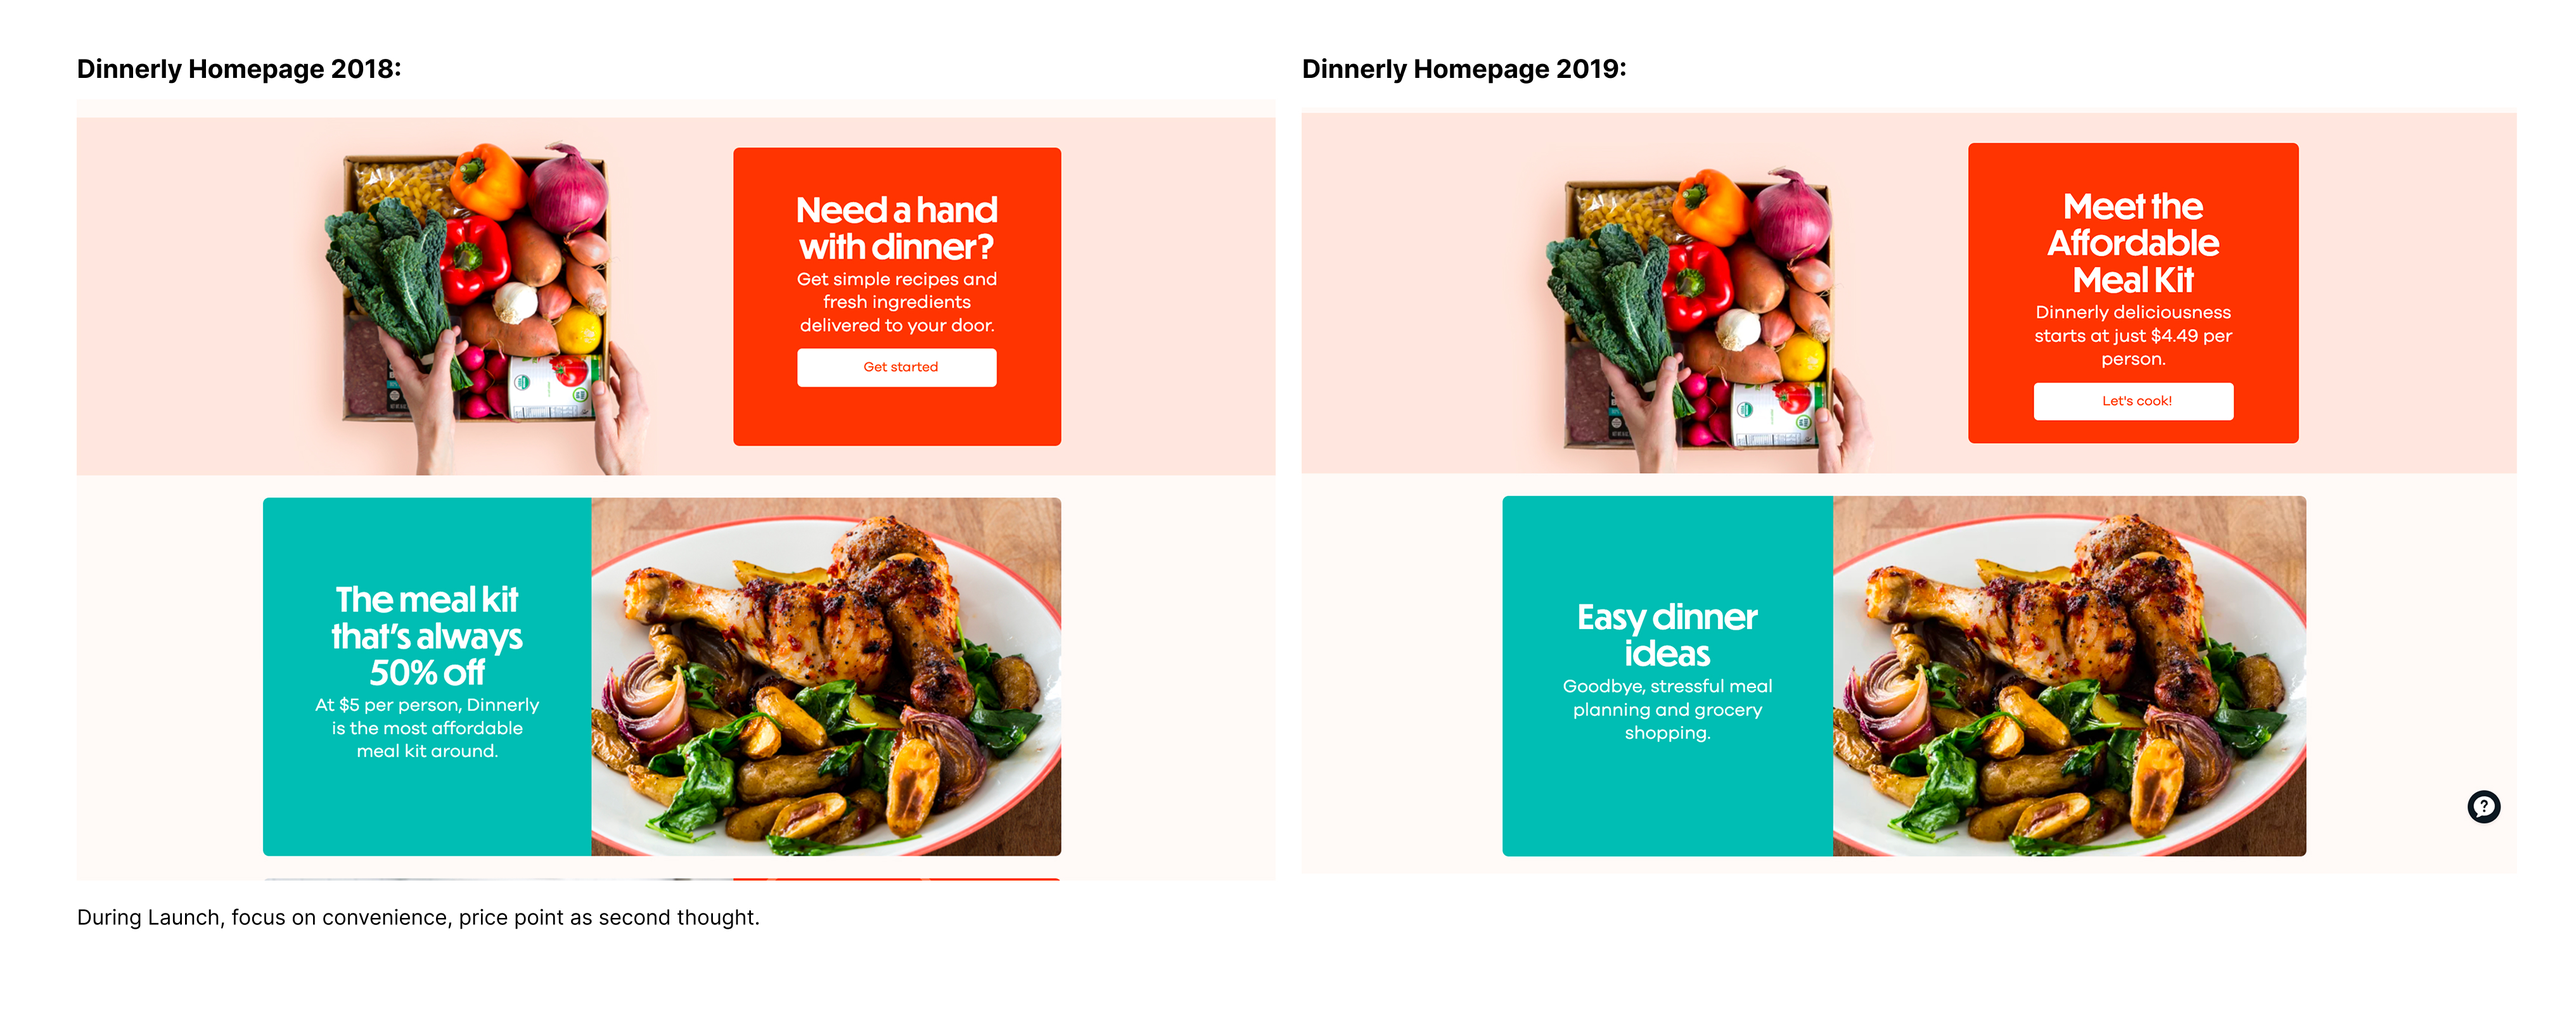
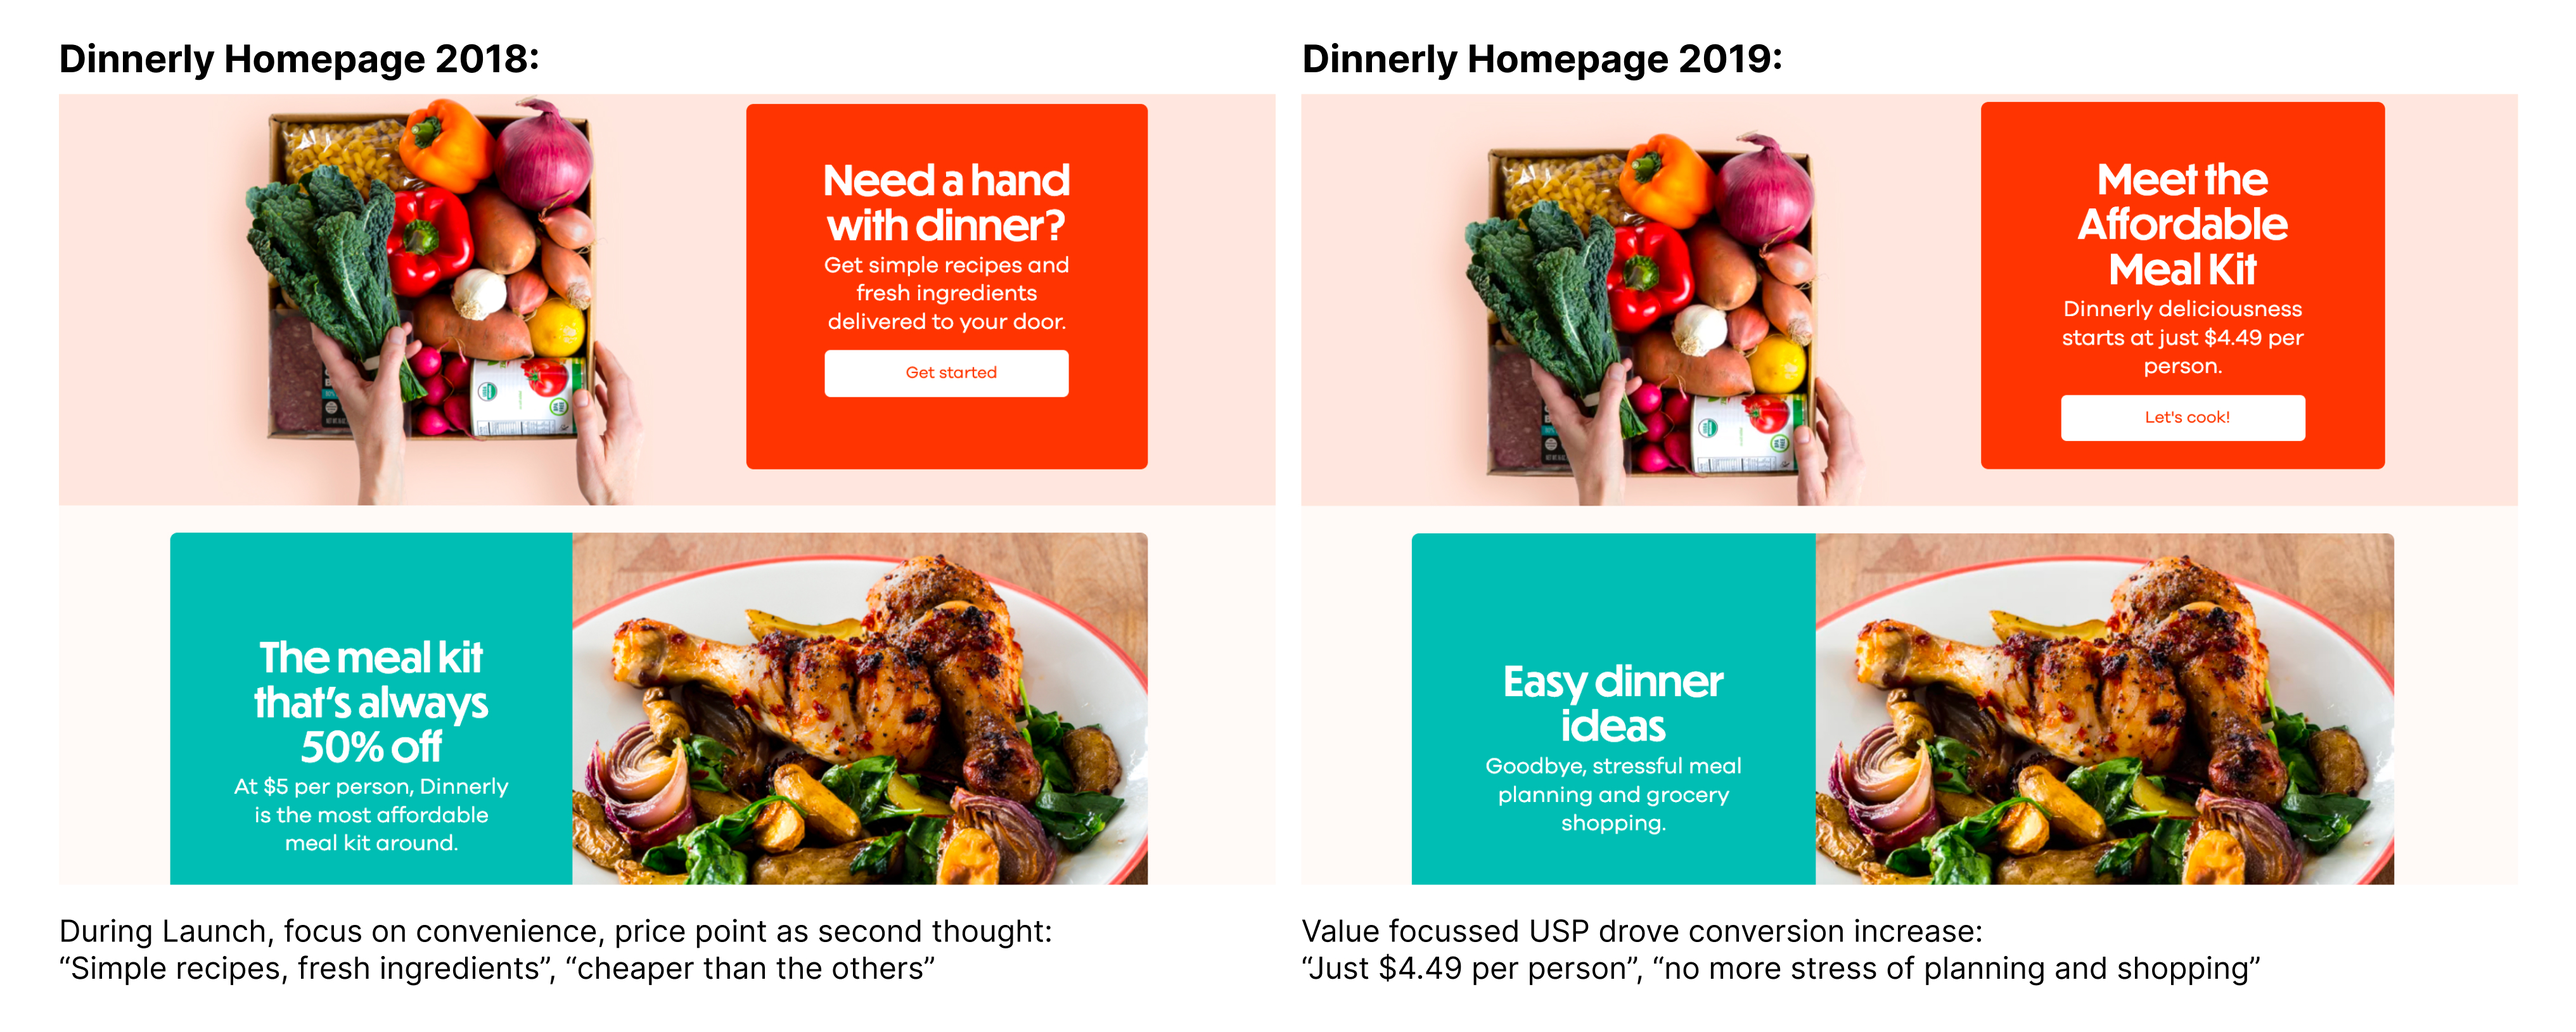
Add Urban Sports Club case study, retire duplicate placeholder project
- Add the Urban Sports Club project (cover, icon, case study)
- Mark Example Project One as draft (placeholder, not ready to show)
- Remove Example Project Two, a duplicate of the same placeholder
- Refresh the Dinnerly homepage-optimisations screenshot

Claude-Session: https://claude.ai/code/session_01VUTpLTW1dAH7KkCLtTRktC

diff --git a/src/content/projects/urban-sports-club/index.md b/src/content/projects/urban-sports-club/index.md
@@ -1,0 +1,73 @@
+---
+title: "Urban Sports Club"
+subtitle: "Sports membership aggregator - from Lead PM to Head of Product"
+summary: "Lead Product Manager (2019–2021), then Head of Product (2021–2023) of a sports membership aggregator with 300k paying members and 10k+ partner venues across Europe. The projects that didn't go perfectly taught me the most — here's what I learnt."
+role: product-manager
+stack: ["iOS", "Android", "Web", "A/B testing"]
+coverImage: "./cover.png"
+coverImageAlt: "Urban Sports Club app"
+icon: "./icon.png"
+accentColor: "#3a4152"
+details:
+  - label: "Industry"
+    value: "Sports & Fitness"
+  - label: "Markets"
+    value: "Europe"
+  - label: "Product"
+    value: "Website & App"
+  - label: "Role"
+    value: "Lead Product Manager → Head of Product"
+links:
+  live: "https://urbansportsclub.com"
+order: -1
+date: 2019-06-01
+---
+
+Urban Sports Club is a sports membership aggregator, during my time there were 300k paying members, 10k+ partner venues across Europe.
+
+## My role 
+
+I owned the end-user experience across app and web, B2C and B2B2C, first as Lead Prodcut Manager for growth and retention (2019-2022), then as Head of Product (2021-2023).
+
+What taught me the most are the projects that didn't go perfectly. Here's what I learnt, and what I'd do differently today.
+
+### All rebuilds take longer than planned
+
+No shit, but seriously: here's why they're so hard to estimate, no matter how carefully you plan.
+
+When I joined Urban Sports Club in 2019, iOS and Android had drifted into two different products on codebases nobody wanted to maintain. We planned the rebuild carefully. We broke the whole app down into features, then epics, and estimated those. As we started each epic we broke it into stories and estimated again. If the stories added up to more than the epic, we knew our original estimate had been off, which is to be expected, and we could either adjust scope or move the timeline.
+
+The process is sound and I still use it. Its limitation shows up when you're rebuilding an existing product against a fixed deadline, because that's when the scope lever stops working. Every cut looks like a regression against the app people already have, so scope cuts rarely happen. Any unexpected delay, and there is always one, can't be absorbed anywhere except the timeline.
+
+Now I go into any rebuild with an explicit answer to "what is the expectation". If there's a fixed deadline, I get agreement upfront on which gaps against the old product are acceptable, if any, and use Shape Up to deliver against it. Without that agreement the scope is "everything, but better", and the timeline has to stay flexible.
+
+### First sport aggregator to launch live-streamed online classes
+
+
+In March 2020 every venue we worked with was about to close. "No partners, no party" was a slogan the partner team used at the time, and it was starting to look real. We bet on live-streamed classes and started building before the closures were announced. We went live on 23rd March, the day the German lockdown started, with streams tied into subscriptions and check-in limits from day one, so partners kept earning and members could keep working out with their favourite studios.
+
+What makes it memorable to me is what happened to our delivery. For months before, we'd been slow, and we'd spent retro after retro analysing our process with little to show for it. Then suddenly we were out-shipping better-funded competitors by weeks. What changed wasn't the process. It was that this was the only priority leadership cared about, everyone understood what was on the line, and everyone had skin in the game.
+
+Two things stuck with me. The most important part of any strategy is the list of things it says no to. And a team with skin in the game will outperform a team trading time for money, every time.
+
+### Sometimes better arguments doesn't beat more influence
+
+
+After live-streaming worked, on-demand video looked like the obvious next step. I didn't think users would adopt it. I had run interviews the year before where one finding was that, given the choice, users preferred community over video on demand content.
+
+I argued the case on user value and jobs to be done, and got nowhere. We built VoD without testing the hypothesis first and the adoption was tiny.
+
+The lesson wasn't about the feature. I'd just been promoted to Head of Product and assumed the title meant my arguments would carry further than they did. They didn't. I was making a product case into a decision that wasn't being made on product grounds, and I never took the time to understand what the initiative meant to the person driving it.
+
+Now I look one step deeper before I argue. When a decision doesn't seem to make sense, there's usually a motivation I can't see, or information sitting on one side of the table and not the other. So I start by understanding what the other person needs from the outcome, and I try to get agreement on how we'll decide before arguing about what to decide. Working with the stakeholder, understanding what drives them, has changed more outcomes for me than any amount of product framework has.
+
+### Delighting users should never lose you money
+
+
+Until 2022 the goal had been growth. Then the financing environment turned and profitability became the goal almost overnight. We were losing money: the bigger plans lost money per member, and a small group of heavy users generated most of the payouts, B2B2C was subsidising B2C.
+
+So we had to make the product less generous and less delightful: charges for no-shows, caps on visits to the most expensive studios, tighter caps per day and per month. It worked. The unit economics improved and the company was later acquired by Wellhub. It also upset members, understandably. We had been selling something close to unlimited and were visibly making the product worse.
+
+I'd been convinced there was a win-win-win in there somewhere, but the business model had always been the problem. We owned the subscriptions and paid partners per check-in, which meant our most engaged users cost us the most money. That's fundamentally flawed.
+
+Today it's one of the first things I review when I build anything. If user value and margin pull against each other by design, you will eventually be asked to reduce user value. It was quite a unique model at the time. Today AI companies face the same thing with token-based pricing, and they've solved it the same way, with caps on usage. I'd expect them to face the same trade-off as soon as their financial goals change.

diff --git a/src/content/projects/example-project-one/index.md b/src/content/projects/example-project-one/index.md
@@ -10,6 +10,7 @@ links:
   repo: "https://github.com/example/example-project-one"
 order: 1
 date: 2024-01-15
+draft: true
 ---
 
 ## Overview
